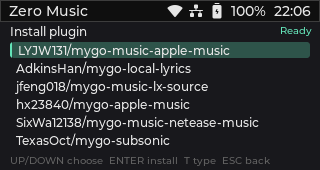
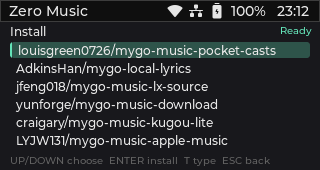
chore: prepare store submission metadata and assets

diff --git a/src/view/screens/plugins_screen.cpp b/src/view/screens/plugins_screen.cpp
@@ -59,7 +59,7 @@ void PluginsScreen::build_list() {
     auto* caption = assets().load_standard_font(10);
 
     title_ = lv_label_create(screen_content_);
-    lv_label_set_text(title_, searching_ ? ("Search: " + filter_ + "_").c_str() : "Plugins  (Q search)");
+    lv_label_set_text(title_, searching_ ? ("Search: " + filter_ + "_").c_str() : "Plugins  (TAB search)");
     lv_obj_set_style_text_font(title_, caption ? caption : &lv_font_montserrat_10, 0);
     lv_obj_align(title_, LV_ALIGN_TOP_LEFT, 10, 2);
     lv_obj_set_style_text_color(title_, searching_ ? colors.primary : colors.text_disabled, 0);
@@ -121,7 +121,7 @@ void PluginsScreen::build_list() {
 void PluginsScreen::refresh() {
     const auto colors = view::palette(view_model().is_dark_mode());
     if (title_) {
-        lv_label_set_text(title_, searching_ ? ("Search: " + filter_ + "_").c_str() : "Plugins  (Q search)");
+        lv_label_set_text(title_, searching_ ? ("Search: " + filter_ + "_").c_str() : "Plugins  (TAB search)");
         lv_obj_set_style_text_color(title_, searching_ ? colors.primary : colors.text_disabled, 0);
     }
     if (hint_) {

diff --git a/PUBLISH.md b/PUBLISH.md
@@ -1,0 +1,60 @@
+# Application Store Publish Record
+
+Keep this file in the application project root. Update it when package
+metadata, listing copy, assets, privacy choices, or submission status changes.
+
+Portal: <https://dev.cardputer.cc/#/upload>
+
+## Package
+
+- Debian package path: `dist/zero-music_0.2.1_rev1_arm64.deb`
+- Package: `zero-music`
+- Version: `0.2.1-rev1`
+- Architecture: `arm64`
+- Maintainer: `H.B. Yu <mail@yuhaibo.com>`
+- APPLaunch desktop path: `usr/share/APPLaunch/applications/zero-music.desktop`
+- Executable path: `/usr/bin/zero-music`
+
+## Source and Ownership
+
+- Public source repository: TODO
+- Expected GitHub uploader/owner: TODO
+- Hide uploader email: `true`
+
+## Listing
+
+- Application name: `Zero Music`
+- One-line summary (maximum 80 characters): `Local music and streaming services, plugin-powered.`
+- Description: `Zero Music plays local files and MyGo Music stream plugins on Cardputer Zero, with a keyboard-first LVGL interface built for its 320x170 screen.`
+- Categories (maximum 6): `Media`
+
+## Assets
+
+- 256 x 256 source icon: `assets/images/zero-music.png` (512 x 512 source, downscaled by the portal)
+- Icon packaged in `.deb`: `usr/share/APPLaunch/share/images/zero-music.png`
+- Screenshot 1 (320 x 170): `screenshot/zero-music-home.png`
+- Screenshot 2 (320 x 170): `screenshot/zero-music-now-playing.png`
+- Screenshot 3 (320 x 170): `screenshot/zero-music-plugins.png`
+- Screenshot 4 (320 x 170): `screenshot/zero-music-install.png`
+- Optional screenshot 5 (portal supports up to 6): not used
+- Optional screenshot 6 (portal supports up to 6): not used
+
+## Preflight
+
+- [x] `.deb` exists and can be parsed.
+- [x] Control fields contain Package, Version, Architecture, and Maintainer.
+- [x] Architecture is appropriate for the package (`arm64` for native binaries).
+- [x] APPLaunch `.desktop`, executable, and PNG icon exist inside the package.
+- [ ] Package name ownership and update version are valid.
+- [ ] Listing copy and categories have been reviewed.
+- [x] Four clean 320 x 170 baseline screenshots exist.
+- [x] No credentials, tokens, or private server details are embedded.
+- [ ] The user explicitly approved external submission.
+
+## Submission Result
+
+- Status: `not submitted`
+- Submitted at: TODO
+- Portal message: TODO
+- Actions URL: TODO
+- Tracking or pull-request URL: TODO

diff --git a/docs/implementation-status.md b/docs/implementation-status.md
@@ -216,7 +216,7 @@ v1 不做中文输入：只保证 ASCII 输入与 CJK 显示。
 已验证产物（2026-11-07）：
 
 - `dist/zero-music_0.2.1_rev1_arm64.deb`，约 7.6 MB，sha256
[2 lines of base64/hex data omitted]
 - `Architecture: arm64`，`Maintainer: H.B. Yu <mail@yuhaibo.com>`；
 - 包内含 `/usr/bin/zero-music`（wrapper）、`zero-music-core`（aarch64 ELF）、
   `zero-music-ui`（aarch64 ELF）、`/etc/zero-music.conf`、APPLaunch 桌面项与
